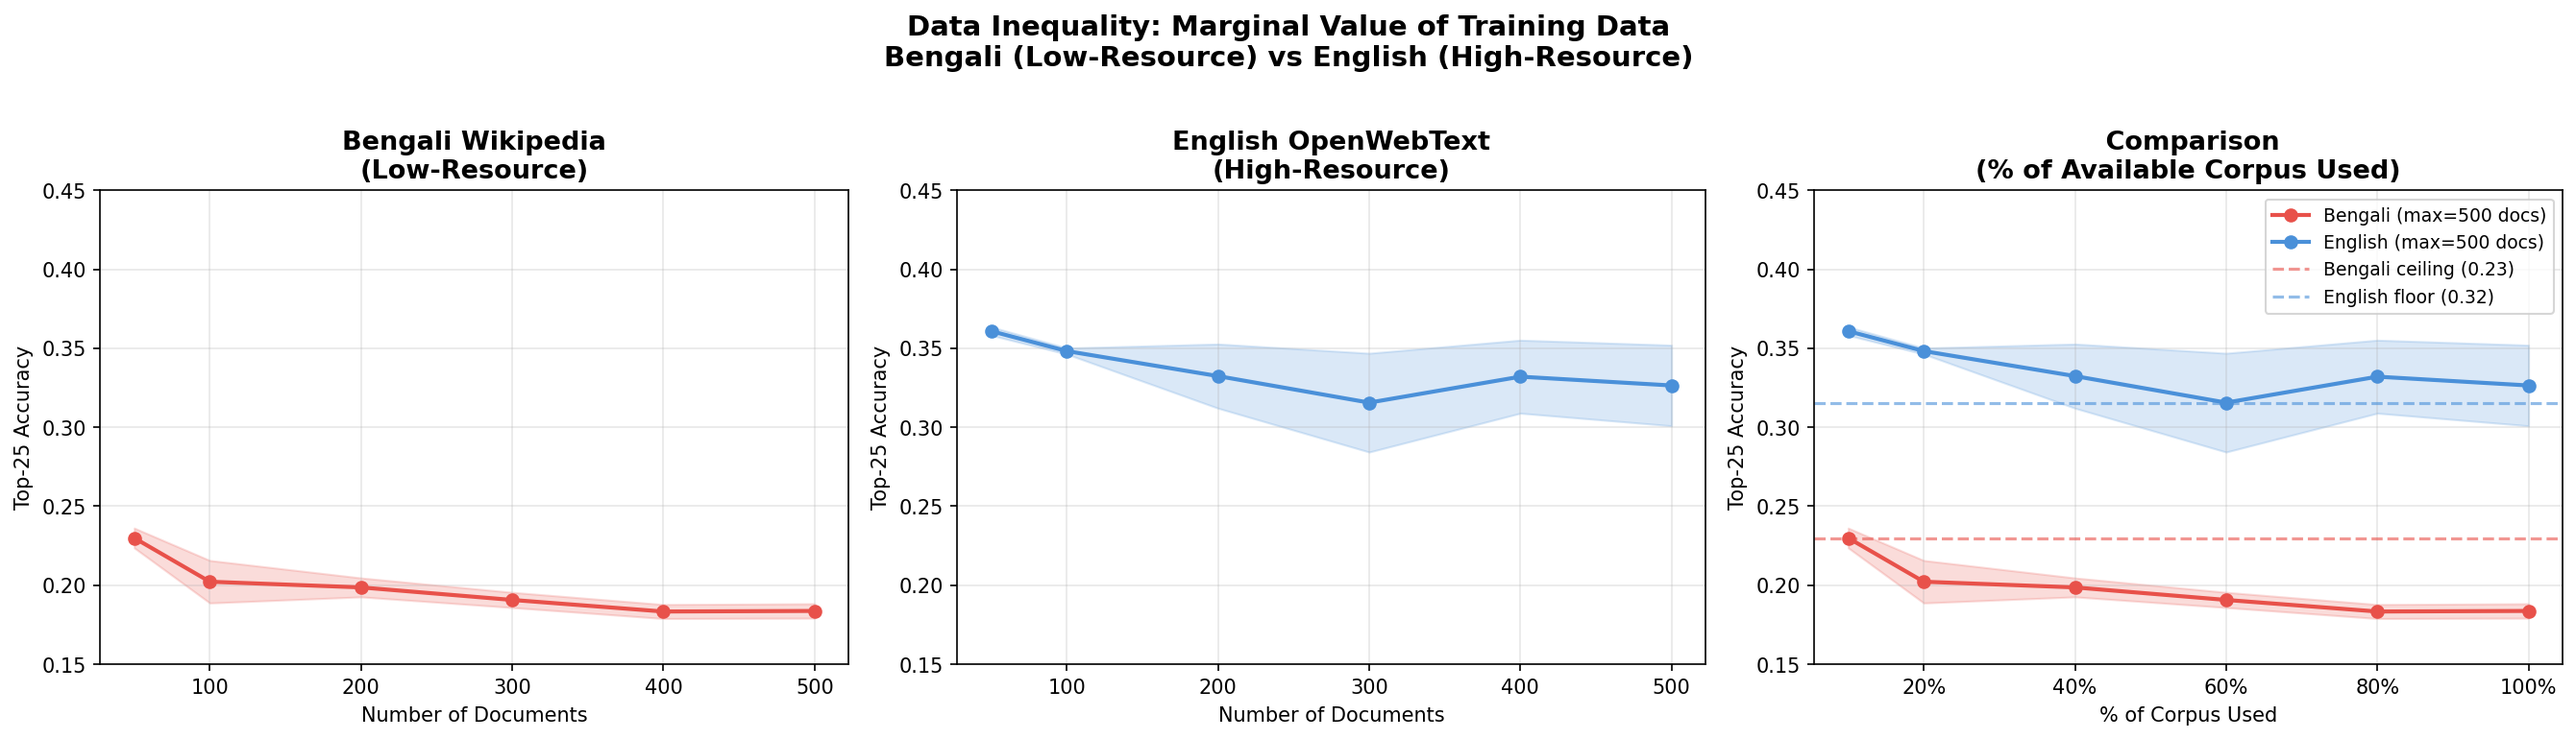
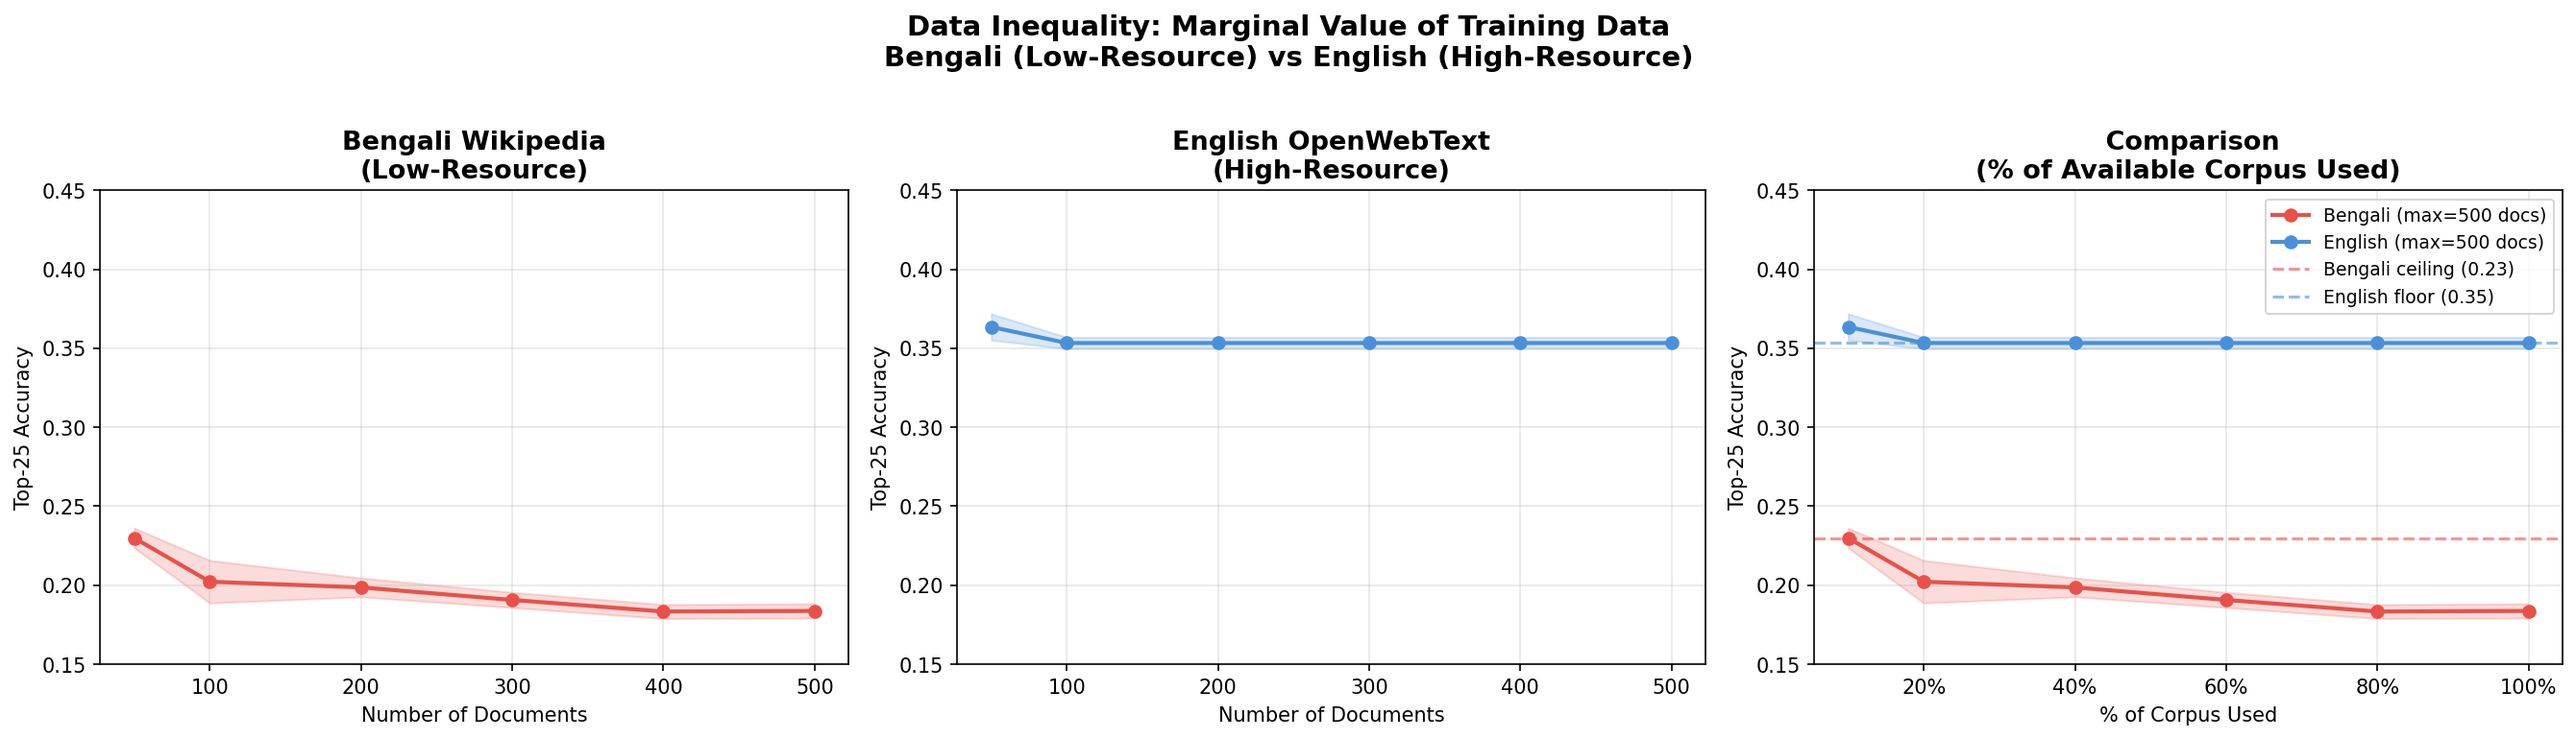
Fixed validation split in train.py

Changed region(s): [[0.712, 0.4364, 0.9907, 0.6234], [0.3715, 0.4364, 0.6501, 0.6234]]

diff --git a/marginal_value/train.py b/marginal_value/train.py
@@ -75,8 +75,8 @@ def main():
     parser.add_argument("--data_path", type=str, default=default_data_path)
     parser.add_argument("--n", type=int, default=None, help="Number of documents to sample (with replacement).")
     parser.add_argument("--seed", type=int, default=0)
-    parser.add_argument("--seq_length", type=int, default=50)
-    parser.add_argument("--epochs", type=int, default=5)
+    parser.add_argument("--seq_length", type=int, default=20)
+    parser.add_argument("--epochs", type=int, default=3)
     parser.add_argument("--batch_size", type=int, default=128)
 
     parser.add_argument("--max_tokens_per_doc", type=int, default=400, help="Cap tokens per doc for speed.")
@@ -99,16 +99,12 @@ def main():
     if m < 2:
         raise ValueError("Need at least 2 documents total.")
 
-    sampled_indices = [random.randrange(m) for _ in range(args.n)]
-    sampled_set = set(sampled_indices)
+    holdout = max(1, int(0.1 * m))
+    val_docs = cleaned_docs[:holdout]
+    pool = cleaned_docs[holdout:]
+    sampled_indices = random.sample(range(len(pool)), min(args.n, len(pool)))
+    train_docs = [pool[i] for i in sampled_indices]
 
-    train_docs = [cleaned_docs[i] for i in sampled_indices]  
-    val_docs = [cleaned_docs[i] for i in range(m) if i not in sampled_set]  
-
-    if len(val_docs) == 0:
-        holdout = max(1, int(0.1 * m))
-        val_docs = cleaned_docs[:holdout]
-        train_docs = cleaned_docs[holdout:]
 
     tokenizer = Tokenizer()
     tokenizer.fit_on_texts(train_docs)

diff --git a/marginal_value/run.py b/marginal_value/run.py
@@ -15,12 +15,12 @@ def main():
     for n in NS:
         for seed in SEEDS:
             cmd = [
-                 sys.executable, train_py,
-                 "--n", str(n),
-                 "--seed", str(seed),
-                 "--epochs", "1",
-                 "--max_tokens_per_doc", "200",
-                 "--max_total_sequences", "20000",
+                sys.executable, train_py,
+                "--n", str(n),
+                "--seed", str(seed),
+                "--epochs", "3",
+                "--max_tokens_per_doc", "200",
+                "--max_total_sequences", "20000",
 ]
             out = subprocess.check_output(cmd, text=True).strip()
             print(out)

diff --git a/marginal_value/marginalvalue.py b/marginal_value/marginalvalue.py
@@ -8,7 +8,7 @@ ds = load_dataset(
 )
 
 out_path = "openwebtext_100.json"
-n = 100
+n = 500
 
 data = []
 for doc in ds.take(n):
